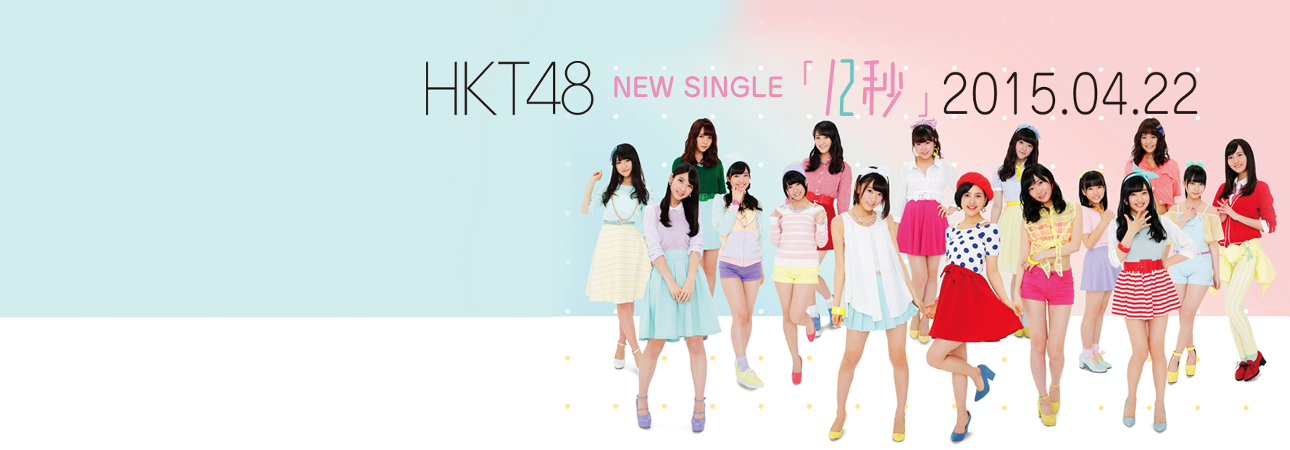
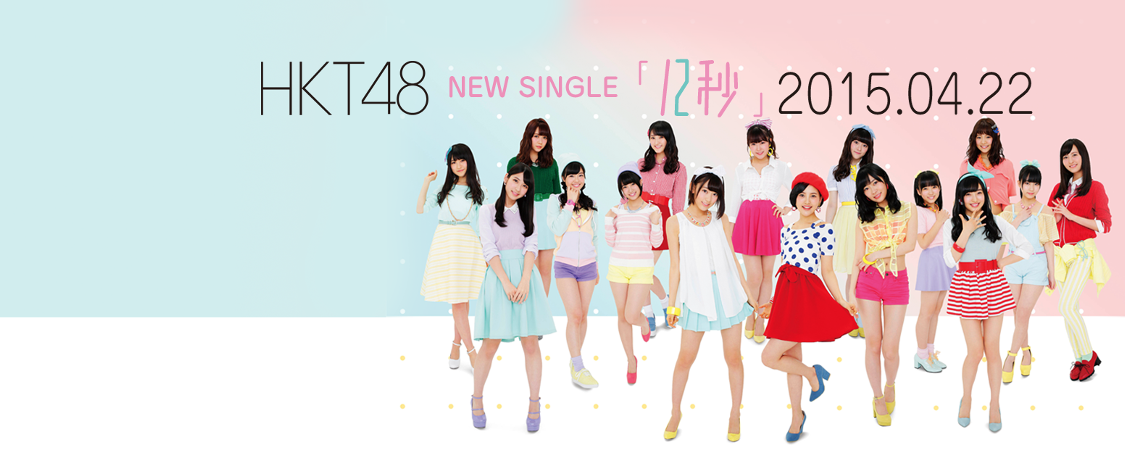
opt bg file size

Changed region(s): [[0.2178, 0.1244, 0.9956, 0.9956], [0.4978, 0.0, 0.5911, 0.1244]]

diff --git a/static_content/styles/schedule.css b/static_content/styles/schedule.css
@@ -115,7 +115,7 @@ table .time.small {
   background-position: top right;
 }
 .jumbotron.single5th {
-  background-image: url(../images/top-banners/single5th.png);
+  background-image: url(../images/top-banners/single5th.jpg);
   background-color: #fbf652;
   background-position: right;
 }

diff --git a/static_content/styles/schedule.less b/static_content/styles/schedule.less
@@ -93,7 +93,7 @@ table .time.small{
 	}
 
 	&.single5th{
-		background-image: url(../images/top-banners/single5th.png);
+		background-image: url(../images/top-banners/single5th.jpg);
 		background-color: rgb(251,246,82);
 		background-position: right;
 	}
